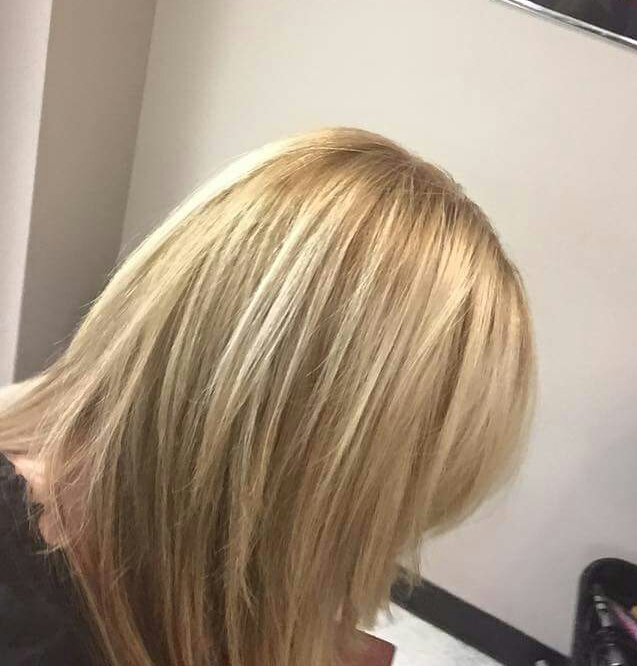
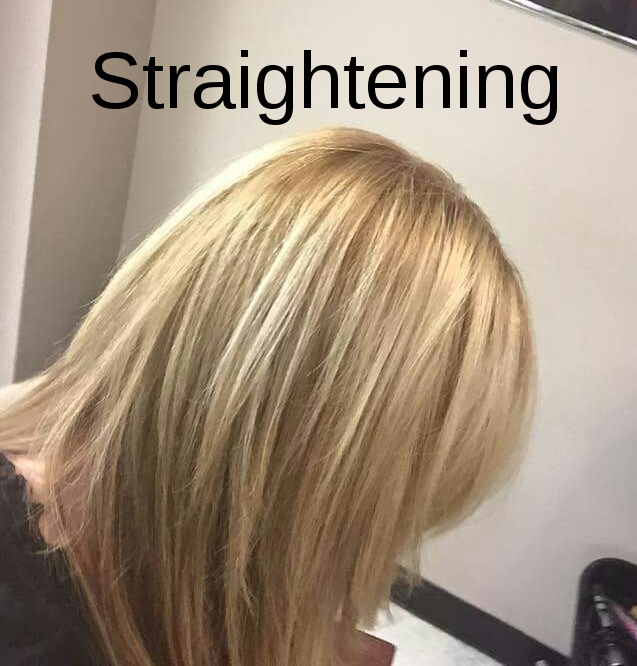
Changed service category image size and added labels

Changed region(s): [[0.1491, 0.0601, 0.8948, 0.2102]]

diff --git a/services/static/services/style/serviceMenu.less b/services/static/services/style/serviceMenu.less
@@ -1,6 +1,6 @@
 .categoryLink {
   float: left;
-  width: 50%;
+  width: 20%;
   margin: auto;
   & > img {
     width: 100%;
